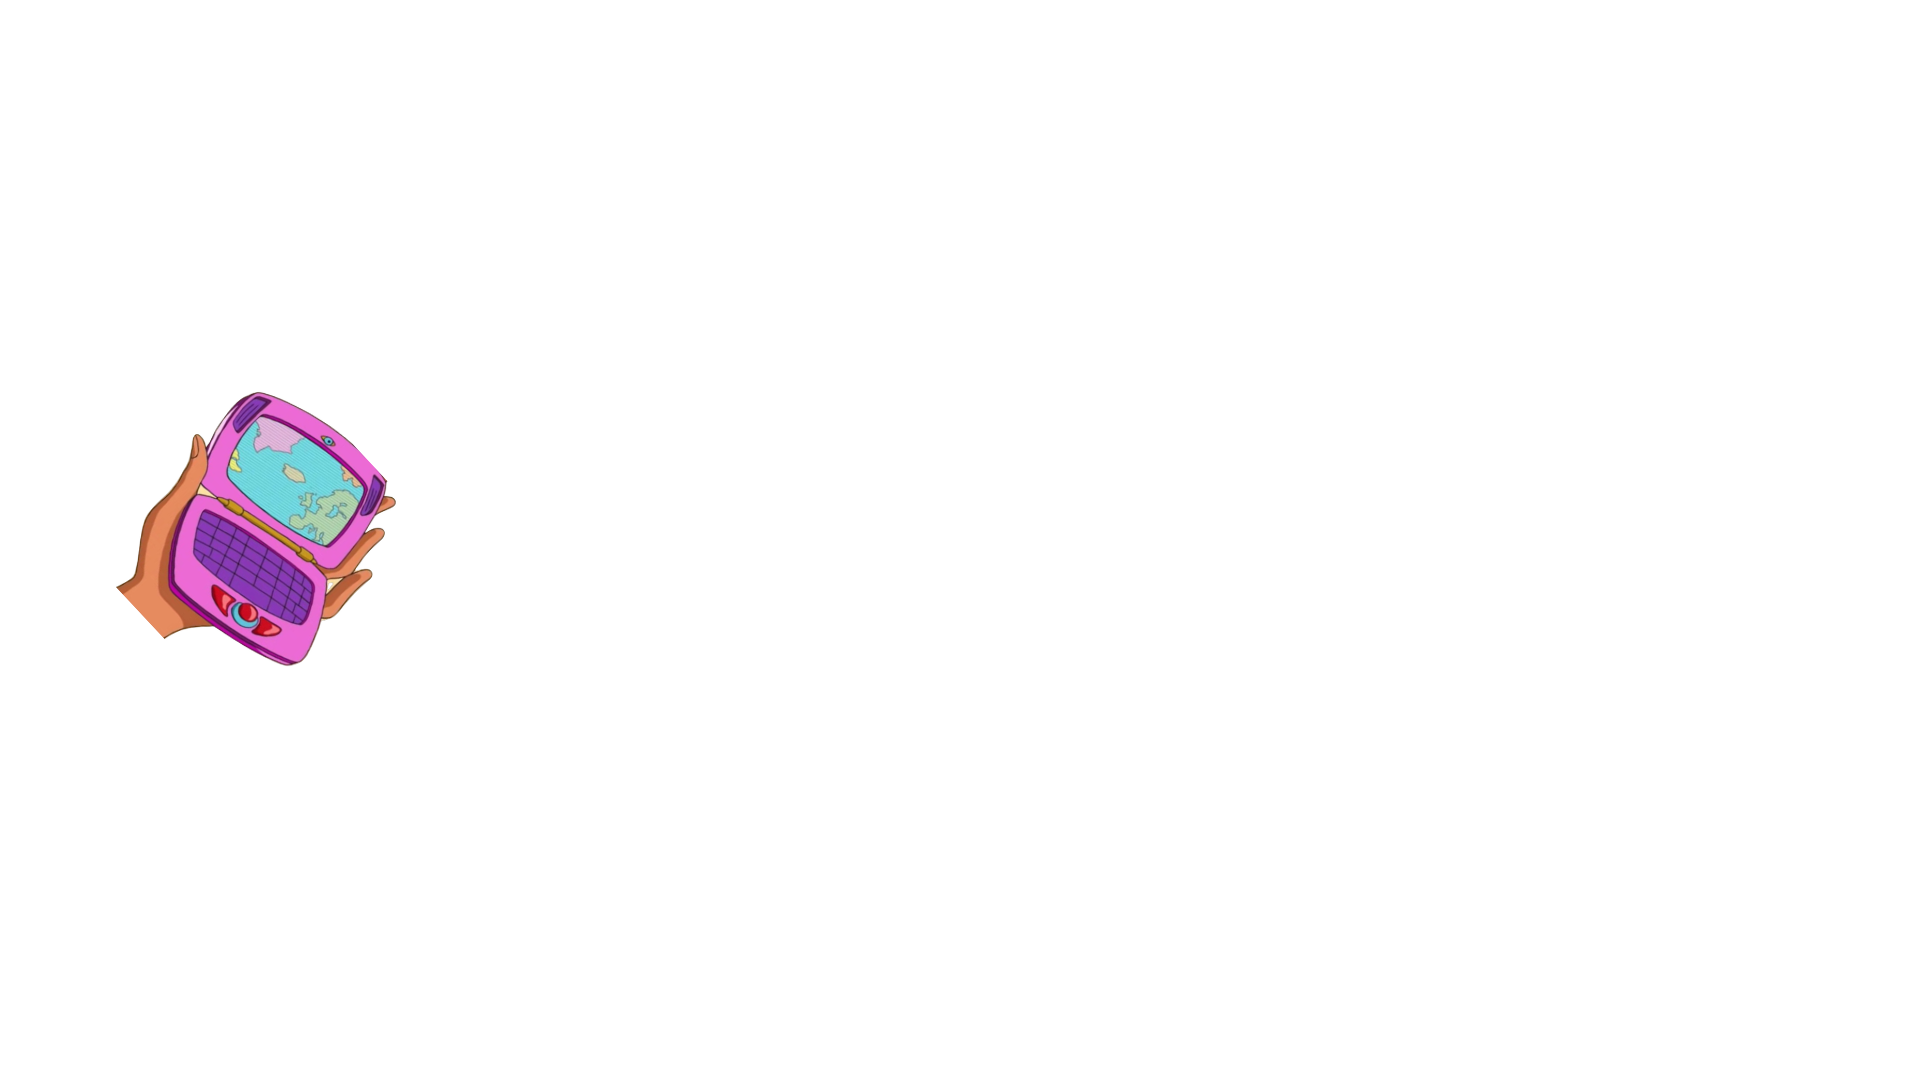
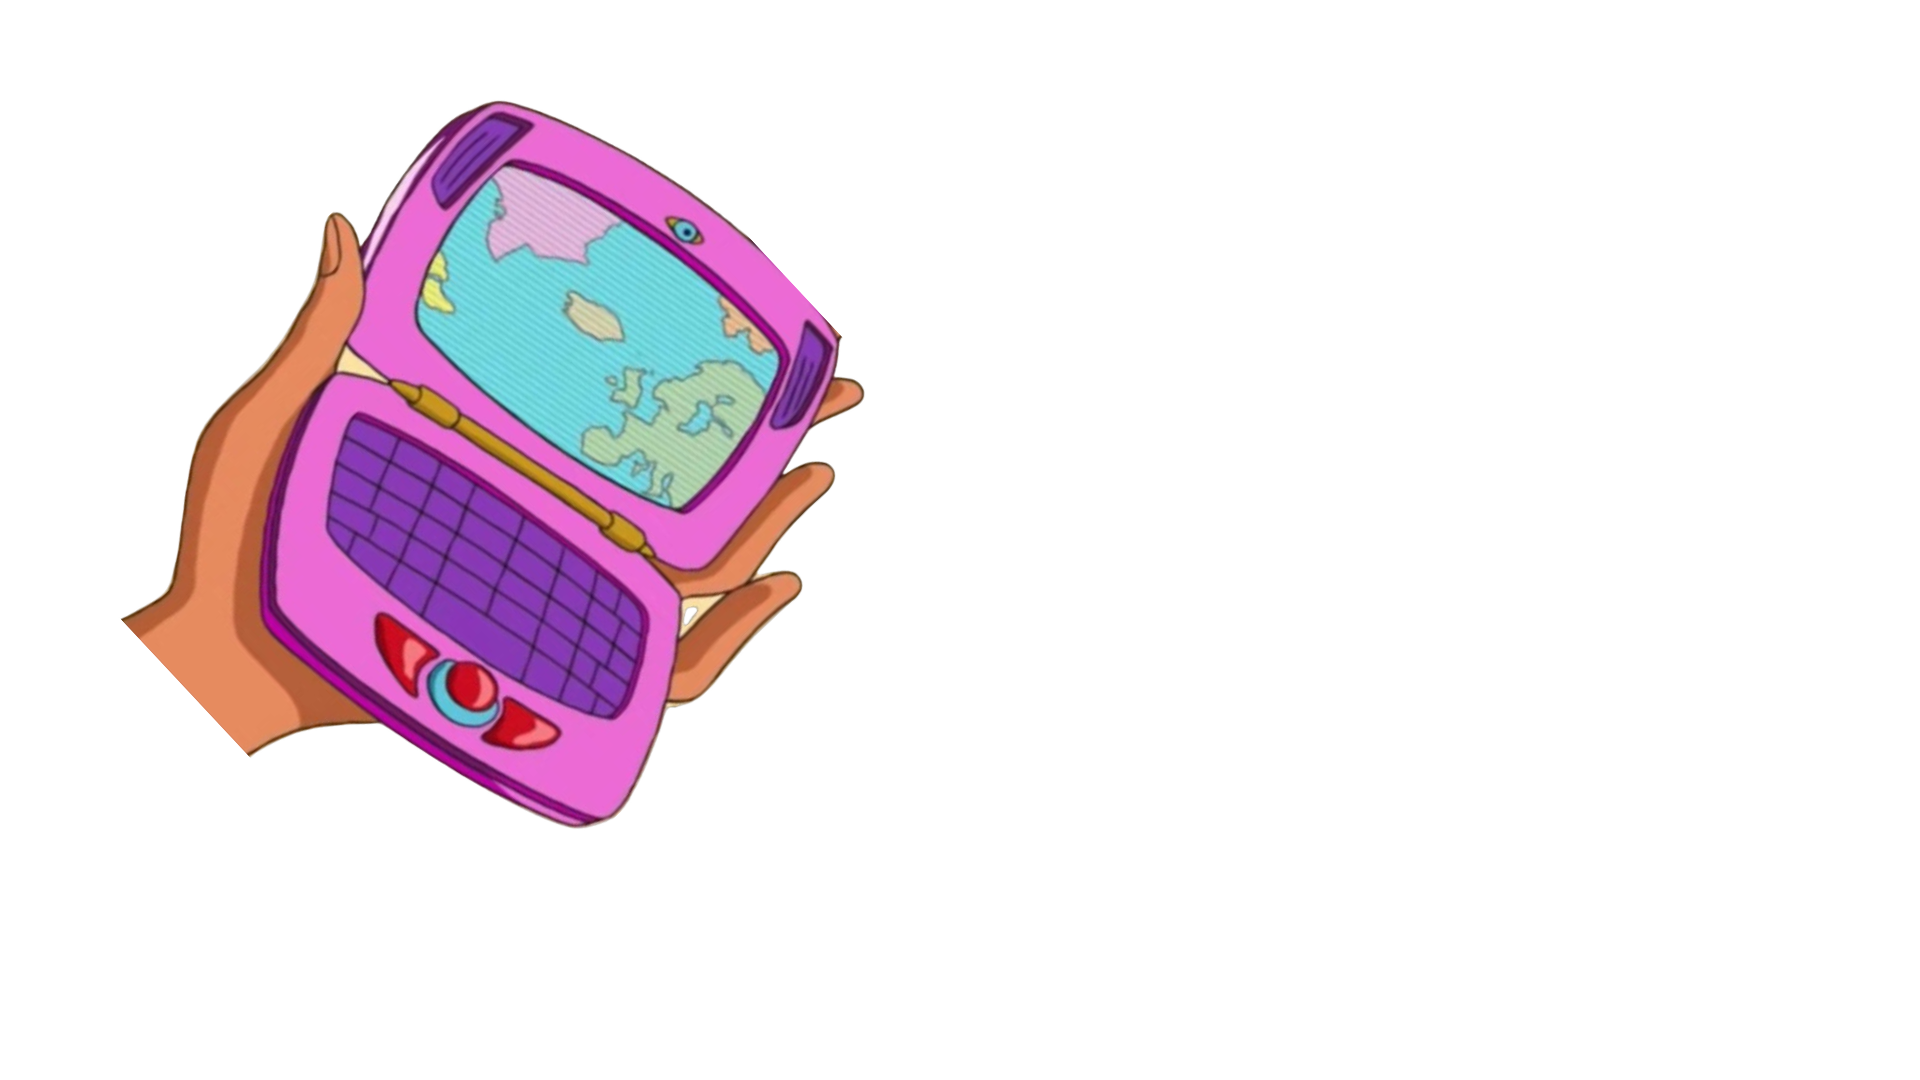
pagina_inicio

Changed region(s): [[0.0625, 0.0917, 0.4688, 0.7639]]

diff --git a/app/static/app/css/style.css b/app/static/app/css/style.css
@@ -1,0 +1,127 @@
+* {
+    margin: 0;
+    padding: 0;
+    box-sizing: border-box;
+    font-family: 'Segoe UI', Tahoma, Geneva, Verdana, sans-serif;
+}
+
+body {
+    background-color: #d88cb4; 
+    min-height: 100vh;
+    display: flex;
+    flex-direction: column;
+    overflow-x: hidden; 
+}
+
+header {
+    background-color: #c576a0;
+    width: 100%;
+}
+
+.navbar {
+    display: flex;
+    justify-content: space-between;
+    align-items: center;
+    max-width: 1200px; 
+    margin: 0 auto;
+    padding: 10px 10px;
+}
+
+.logo { 
+    height: 90px; 
+}
+
+.navbar ul { 
+    display: flex; 
+    list-style: none; 
+}
+
+.navbar ul li { 
+    margin-left: 25px; 
+}
+
+.navbar ul li a {
+    text-decoration: none;
+    color: black;
+    font-weight: 500;
+    font-size: 1.4rem;
+}
+
+.container-inicio {
+    display: grid;
+    grid-template-columns: 1fr 1.2fr 1.8fr; 
+    gap: 80px;
+    padding: 40px 0 0 40px; 
+    flex-grow: 1;
+    align-items: start;
+    width: 100%;
+}
+
+.card-tablet {
+    position: relative;
+    z-index: 1;
+}
+
+.img-tablet {
+    width: 320px;
+    position: absolute;
+    top: 70px;
+    left: -70px;
+    z-index: -1; 
+    opacity: 0.8;
+}
+
+.sobre-desenho {
+    margin-top: 60px;
+}
+
+.coluna-curiosidade {
+    position: relative;
+    z-index: 1;
+}
+
+.img-gadgets {
+    width: 250px;
+    position: absolute;
+    top: 60px;
+    left: 200px;
+    z-index: -1;
+    opacity: 0.7;
+}
+
+.coluna-imagem-principal {
+    display: flex;
+    justify-content: flex-end; 
+    align-self: flex-end;     
+    margin-bottom: 60px; 
+    margin-right: -10px;      
+}
+
+.img-protagonistas {
+    width: 120%;               
+    max-width: 850px;          
+    height: auto;
+    display: block;
+}
+
+h3 {
+    font-size: 1.8rem;
+    margin-bottom: 10px;
+    font-weight: bold;
+}
+
+p {
+    font-size: 1.1rem;
+    line-height: 1.4;
+}
+
+footer {
+    background-color: black;
+    color: white;
+    text-align: left;
+    padding: 20px 60px;
+    position: fixed;
+    bottom: 0;
+    width: 100%;
+    z-index: 10;
+}

diff --git a/app/templates/app/inicio.html b/app/templates/app/inicio.html
@@ -1,0 +1,38 @@
+{% extends 'app/base.html' %}
+{% load static %}
+
+{% block content %}
+<section class="container-inicio">
+    <!-- Lado Esquerdo -->
+    <div class="coluna-info">
+        <div class="card-tablet">
+            <img src="{% static 'app/img/tabletinicio.png' %}" class="img-tablet">
+            <div class="texto-sobre-tablet">
+                <h3>Informações gerais</h3>
+                <p>Nome original: {{ serie.nome }}</p>
+                <p>Estreia: {{ serie.estreia }}</p>
+                <p>Gênero: {{ serie.genero }}</p>
+                <p>Público-alvo: {{ serie.publico }}</p>
+                <p>Estilo: {{ serie.estilo }}</p>
+            </div>
+        </div>
+        
+        <div class="sobre-desenho">
+            <h3>Sobre o desenho</h3>
+            <p>Cada episódio mostra as meninas tentando equilibrar a vida escolar com missões secretas. O desenho ficou famoso pelos gadgets tecnológicos e pelas transformações das personagens em espiãs.</p>
+        </div>
+    </div>
+
+    <!-- Centro -->
+    <div class="coluna-curiosidade">
+        <h3>Curiosidade</h3>
+        <p>O visual colorido e o estilo das personagens ajudaram o desenho a virar um ícone dos anos 2000, e a série ganhou novas temporadas muitos anos depois do lançamento original.</p>
+        <img src="{% static 'app/img/equipamentosinicio.png' %}" class="img-gadgets">
+    </div>
+
+    <!-- Lado Direito -->
+    <div class="coluna-imagem-principal">
+        <img src="{% static 'app/img/imageminicio.png' %}" class="img-protagonistas">
+    </div>
+</section>
+{% endblock %}

diff --git a/app/templates/app/base.html b/app/templates/app/base.html
@@ -1,0 +1,32 @@
+{% load static %}
+<!DOCTYPE html>
+<html lang="pt-br">
+<head>
+    <meta charset="UTF-8">
+    <title>Totally Spies! - Projeto</title>
+    <link rel="stylesheet" href="{% static 'app/css/style.css' %}">
+</head>
+
+<body>
+    <header>
+        <nav class="navbar">
+            <img src="{% static 'app/img/logomenu.png' %}" alt="Logo" class="logo">
+            <ul>
+                <li><a href="{% url 'inicio' %}">inicio</a></li>
+                <li><a href="{% url 'equipe' %}">elenco/protagonistas</a></li>
+                <li><a href="{% url 'sobre' %}">sobre</a></li>
+            </ul>
+        </nav>
+    </header>
+
+    <main>
+        {% block content %}
+        <!-- O conteúdo das outras páginas entra aqui -->
+        {% endblock %}
+    </main>
+
+    <footer>
+        <p>&copy; 2026 pweb. Todos os direitos reservados.</p>
+    </footer>
+</body>
+</html>

diff --git a/app/views.py b/app/views.py
@@ -1,3 +1,17 @@
 from django.shortcuts import render
 
-# Create your views here.
+def inicio (request):
+    dados_serie = {
+        'nome': 'Totally Spies!',
+        'estreia': '2001',
+        'genero': 'Ação, Aventura, Comédia e Espionagem',
+        'publico': 'Infantil e Adolescente',
+        'estilo': 'Inspirado em filmes de espionagem como 007.'
+    }
+    return render (request, 'app/inicio.html', {'serie': dados_serie})
+
+def equipe(request):
+    return render(request, 'app/equipe.html')
+
+def sobre(request):
+    return render (request, 'app/sobre.html')
